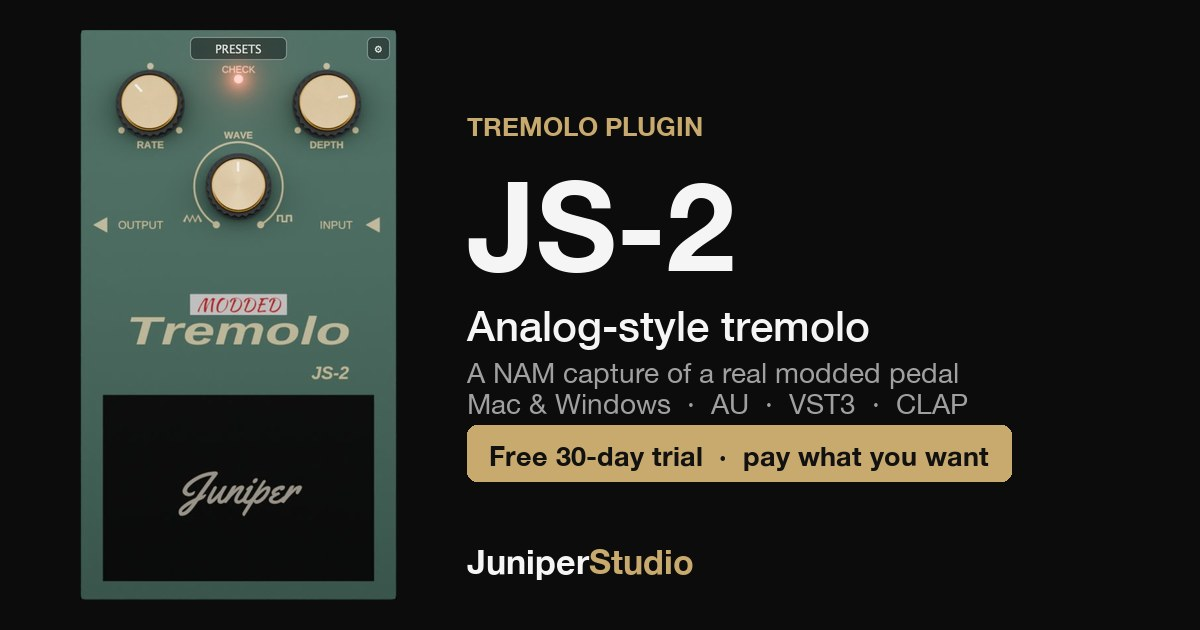
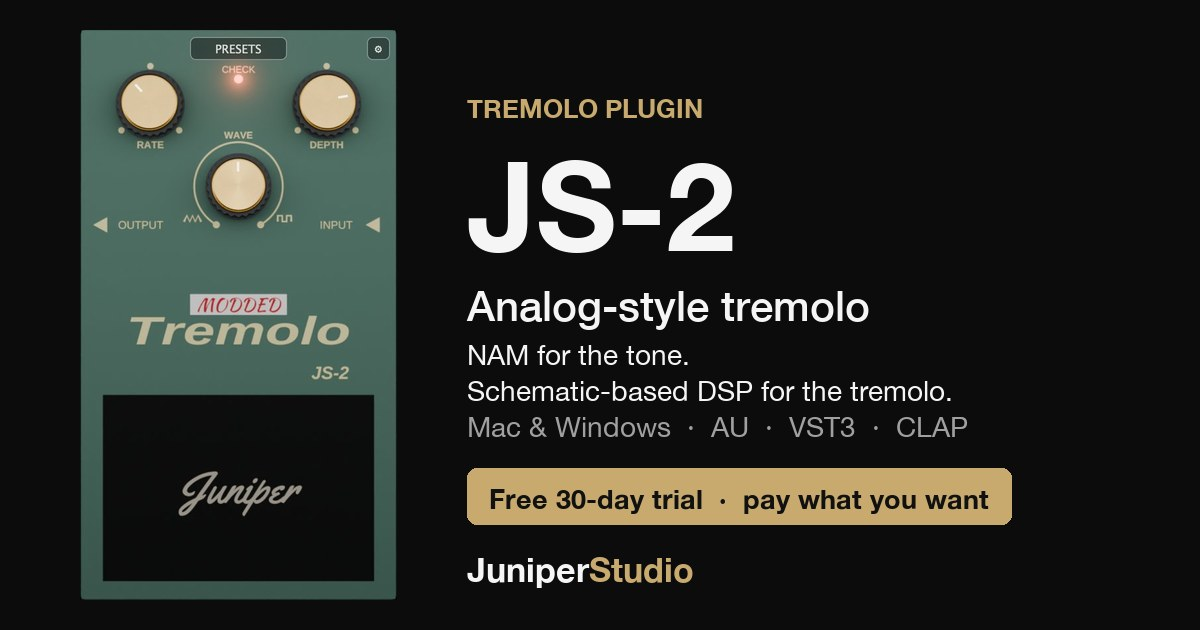
Plugin wording: "NAM for the tone, schematic-based DSP for the tremolo/chorus"
Replaces "a NAM capture of a real modded pedal" / "NAM captures of..." / "that capture runs inside the
plugin" everywhere (share cards, meta and social descriptions, structured data, What-it-is text,
feature cards, FAQ, plugins page, homepage, llms.txt), so the site no longer implies how many
captures a plugin uses. Share-card URLs get ?v=2 so cached link previews refresh.

Changed region(s): [[0.37, 0.1508, 0.8633, 0.8444], [0.37, 0.8746, 0.5858, 0.9349]]

diff --git a/js505.html b/js505.html
@@ -5,7 +5,7 @@
   <meta charset="UTF-8">
   <meta name="viewport" content="width=device-width, initial-scale=1.0">
   <title>JS-505 Chorus Plugin for Mac &amp; Windows — Free Trial</title>
-  <meta name="description" content="Analog-style chorus plugin built on NAM captures of a real chorus pedal. AU, VST3 and CLAP for Mac and Windows. Free 30-day trial, then pay what you want.">
+  <meta name="description" content="Analog-style chorus plugin: NAM for the tone, schematic-based DSP for the chorus. AU, VST3 and CLAP for Mac and Windows. Free 30-day trial, pay what you want.">
   <link rel="canonical" href="https://juniperstudiollc.com/js505">
 
   <link rel="icon" type="image/svg+xml" href="images/favicon.svg">
@@ -15,7 +15,7 @@
   <meta property="og:type" content="product">
   <meta property="og:site_name" content="Juniper Studio LLC">
   <meta property="og:title" content="JS-505 Chorus Plugin for Mac &amp; Windows — Free Trial">
-  <meta property="og:description" content="Analog-style chorus built on NAM captures of a real vintage chorus pedal. Free 30-day trial, then pay what you want from $1.">
+  <meta property="og:description" content="NAM for the tone, schematic-based DSP for the chorus, from a real vintage pedal. Free 30-day trial, then pay what you want from $1.">
   <meta property="og:url" content="https://juniperstudiollc.com/js505">
   <meta property="og:image" content="https://juniperstudiollc.com/images/social/js505.jpg">
   <meta property="og:image:width" content="1200">
@@ -23,7 +23,7 @@
   <meta property="og:image:alt" content="JS-505 analog-style chorus plugin">
   <meta name="twitter:card" content="summary_large_image">
   <meta name="twitter:title" content="JS-505 Chorus Plugin for Mac &amp; Windows — Free Trial">
-  <meta name="twitter:description" content="Analog-style chorus built on NAM captures of a real vintage chorus pedal. Free 30-day trial, then pay what you want from $1.">
+  <meta name="twitter:description" content="NAM for the tone, schematic-based DSP for the chorus, from a real vintage pedal. Free 30-day trial, then pay what you want from $1.">
   <meta name="twitter:image" content="https://juniperstudiollc.com/images/social/js505.jpg">
 
   <link rel="preconnect" href="https://fonts.googleapis.com">
@@ -42,7 +42,7 @@
   "dateModified": "2026-09-27",
   "applicationSubCategory": "Audio plugin (chorus effect)",
   "operatingSystem": "macOS 12 or newer, Windows",
-  "description": "Analog-style chorus plugin (AU, VST3, CLAP) built on a real vintage chorus pedal captured with Neural Amp Modeler A2. Free 30-day trial, then pay what you want.",
+  "description": "Analog-style chorus plugin (AU, VST3, CLAP) from a real vintage chorus pedal: Neural Amp Modeler A2 for the tone, schematic-based DSP for the chorus. Free 30-day trial, then pay what you want.",
   "url": "https://juniperstudiollc.com/js505",
   "image": "https://juniperstudiollc.com/images/js505-plugin.webp",
   "downloadUrl": "https://juniperstudiollc.com/js505",
@@ -62,7 +62,7 @@
   },
   "featureList": [
     "Analog-style chorus with SPEED and DEPTH controls",
-    "Built on NAM A2 captures of a real vintage pedal",
+    "NAM A2 for the tone, schematic-based DSP for the chorus",
     "Auto-Calibration for over 90 audio interfaces and preamps",
     "Optional buffered bypass, like the hardware",
     "Mono and stereo, including mono in to stereo out",
@@ -106,7 +106,7 @@
       "name": "What is JS-505?",
       "acceptedAnswer": {
         "@type": "Answer",
-        "text": "JS-505 is an analog-style chorus plugin from Juniper Studio LLC. It is built from a real vintage chorus pedal, captured with Neural Amp Modeler A2 (NAM A2), and has two knobs (SPEED and DEPTH) and a footswitch."
+        "text": "JS-505 is an analog-style chorus plugin from Juniper Studio LLC. It is built from a real vintage chorus pedal, with Neural Amp Modeler A2 (NAM A2) for the tone and schematic-based DSP for the chorus, and has two knobs (SPEED and DEPTH) and a footswitch."
       }
     },
     {
@@ -162,7 +162,7 @@
       "name": "What is NAM A2?",
       "acceptedAnswer": {
         "@type": "Answer",
-        "text": "Neural Amp Modeler (NAM), created by Steven Atkinson, is an open-source technology for capturing the sound of real analog gear. JS-505 uses its A2 models, so the tone comes from a capture of the actual hardware."
+        "text": "Neural Amp Modeler (NAM), created by Steven Atkinson, is an open-source technology for capturing the sound of real analog gear. JS-505 uses its A2 models for the pedal's tone, so it has the character of the actual hardware. The chorus itself is schematic-based DSP."
       }
     }
   ]
@@ -245,8 +245,8 @@
   <section class="section section-alt">
     <div class="container" style="max-width:860px;">
       <h2 style="text-align:center;">What it is</h2>
-      <p style="color:var(--muted);line-height:1.75;margin:0 auto 1rem;">JS-505 starts with a real vintage analog chorus pedal. We captured the pedal's own tone, the warmth that comes from its input and output circuitry, using Neural Amp Modeler A2 (NAM A2), the same technology used to capture guitar amps. That capture runs inside the plugin, so what you hear has the character of the actual hardware, not a generic digital imitation.</p>
-      <p style="color:var(--muted);line-height:1.75;margin:0 auto 1rem;">The chorus itself is modeled the way the original works: a short delay that's swept slowly and blended with your dry signal, then softened the way a bucket-brigade chip softens it. Turn SPEED up for a faster shimmer, DEPTH up for a wider, wobblier sound, or keep both low for a subtle thickening that just makes a track sound bigger.</p>
+      <p style="color:var(--muted);line-height:1.75;margin:0 auto 1rem;">JS-505 starts with a real vintage analog chorus pedal. The pedal's own tone, the warmth that comes from its input and output circuitry, comes from Neural Amp Modeler A2 (NAM A2), the same technology used to capture guitar amps, so what you hear has the character of the actual hardware, not a generic digital imitation.</p>
+      <p style="color:var(--muted);line-height:1.75;margin:0 auto 1rem;">The chorus itself is schematic-based DSP that works the way the original does: a short delay that's swept slowly and blended with your dry signal, then softened the way a bucket-brigade chip softens it. Turn SPEED up for a faster shimmer, DEPTH up for a wider, wobblier sound, or keep both low for a subtle thickening that just makes a track sound bigger.</p>
       <p style="color:var(--muted);line-height:1.75;margin:0 auto 2rem;">It was made and tested in a working recording studio, and it works great on guitar, bass, keys, synths and vocals. You get the sound of the pedal without the pedalboard, the cables or the hiss.</p>
 
       <div class="cards">
@@ -256,7 +256,7 @@
         </div>
         <div class="card">
           <h3>Built on NAM A2</h3>
-          <p>The tone comes from a real capture of the hardware, made with Neural Amp Modeler A2, so it has the weight and warmth of the original circuit.</p>
+          <p>Neural Amp Modeler A2 for the tone, schematic-based DSP for the chorus, so it has the weight and warmth of the original circuit.</p>
         </div>
         <div class="card">
           <h3>Buffered Bypass</h3>
@@ -264,7 +264,7 @@
         </div>
         <div class="card">
           <h3>Auto-Calibration</h3>
-          <p>Pick your audio interface or preamp from a list of over 90 and JS-505 drives the capture at the right level. Works on mono and stereo tracks, and takes mono tracks to stereo.</p>
+          <p>Pick your audio interface or preamp from a list of over 90 and JS-505 drives the pedal's tone at the right level. Works on mono and stereo tracks, and takes mono tracks to stereo.</p>
         </div>
       </div>
     </div>
@@ -286,7 +286,7 @@
     <div class="container" style="max-width:860px;">
       <h2 style="text-align:center;">Frequently asked questions</h2>
       <h3 style="margin-top:1.5rem;">What is JS-505?</h3>
-      <p style="color:var(--muted);line-height:1.7;">JS-505 is an analog-style chorus plugin from Juniper Studio LLC. It is built from a real vintage chorus pedal, captured with Neural Amp Modeler A2 (NAM A2), and has two knobs (SPEED and DEPTH) and a footswitch.</p>
+      <p style="color:var(--muted);line-height:1.7;">JS-505 is an analog-style chorus plugin from Juniper Studio LLC. It is built from a real vintage chorus pedal, with Neural Amp Modeler A2 (NAM A2) for the tone and schematic-based DSP for the chorus, and has two knobs (SPEED and DEPTH) and a footswitch.</p>
       <h3 style="margin-top:1.5rem;">What formats and computers does JS-505 run on?</h3>
       <p style="color:var(--muted);line-height:1.7;">On Mac: AU, VST3 and CLAP, for Apple Silicon and Intel, on macOS 12 or newer. On Windows: VST3 and CLAP. An AAX version for Pro Tools is coming soon.</p>
       <h3 style="margin-top:1.5rem;">Is JS-505 free?</h3>
@@ -300,7 +300,7 @@
       <h3 style="margin-top:1.5rem;">What is Buffered Bypass?</h3>
       <p style="color:var(--muted);line-height:1.7;">The real pedal doesn't just disconnect when you switch it off: your signal still passes through its buffer, which has a sound of its own. Turn on Buffered Bypass in Settings and the footswitch gives you that buffered sound, while your DAW's bypass button still bypasses the plugin completely.</p>
       <h3 style="margin-top:1.5rem;">What is NAM A2?</h3>
-      <p style="color:var(--muted);line-height:1.7;">Neural Amp Modeler (NAM), created by Steven Atkinson, is an open-source technology for capturing the sound of real analog gear. JS-505 uses its A2 models, so the tone comes from a capture of the actual hardware.</p>
+      <p style="color:var(--muted);line-height:1.7;">Neural Amp Modeler (NAM), created by Steven Atkinson, is an open-source technology for capturing the sound of real analog gear. JS-505 uses its A2 models for the pedal's tone, so it has the character of the actual hardware. The chorus itself is schematic-based DSP.</p>
     </div>
   </section>
 

diff --git a/js2.html b/js2.html
@@ -5,7 +5,7 @@
   <meta charset="UTF-8">
   <meta name="viewport" content="width=device-width, initial-scale=1.0">
   <title>JS-2 Tremolo Plugin for Mac &amp; Windows — Free Trial</title>
-  <meta name="description" content="Analog-style tremolo plugin built on a NAM capture of a real modded pedal. AU, VST3 and CLAP for Mac and Windows. Free 30-day trial, then pay what you want.">
+  <meta name="description" content="Analog-style tremolo plugin: NAM for the tone, schematic-based DSP for the tremolo. AU, VST3 and CLAP for Mac and Windows. Free 30-day trial, pay what you want.">
   <link rel="canonical" href="https://juniperstudiollc.com/js2">
 
   <link rel="icon" type="image/svg+xml" href="images/favicon.svg">
@@ -15,7 +15,7 @@
   <meta property="og:type" content="product">
   <meta property="og:site_name" content="Juniper Studio LLC">
   <meta property="og:title" content="JS-2 Tremolo Plugin for Mac &amp; Windows — Free Trial">
-  <meta property="og:description" content="Analog-style tremolo built on a NAM capture of a real modded pedal. Free 30-day trial, then pay what you want from $1.">
+  <meta property="og:description" content="NAM for the tone, schematic-based DSP for the tremolo, from a real modded pedal. Free 30-day trial, then pay what you want from $1.">
   <meta property="og:url" content="https://juniperstudiollc.com/js2">
   <meta property="og:image" content="https://juniperstudiollc.com/images/social/js2.jpg">
   <meta property="og:image:width" content="1200">
@@ -23,7 +23,7 @@
   <meta property="og:image:alt" content="JS-2 analog-style tremolo plugin">
   <meta name="twitter:card" content="summary_large_image">
   <meta name="twitter:title" content="JS-2 Tremolo Plugin for Mac &amp; Windows — Free Trial">
-  <meta name="twitter:description" content="Analog-style tremolo built on a NAM capture of a real modded pedal. Free 30-day trial, then pay what you want from $1.">
+  <meta name="twitter:description" content="NAM for the tone, schematic-based DSP for the tremolo, from a real modded pedal. Free 30-day trial, then pay what you want from $1.">
   <meta name="twitter:image" content="https://juniperstudiollc.com/images/social/js2.jpg">
 
   <link rel="preconnect" href="https://fonts.googleapis.com">
@@ -42,7 +42,7 @@
   "datePublished": "2026-09-27",
   "applicationSubCategory": "Audio plugin (tremolo effect)",
   "operatingSystem": "macOS 12 or newer, Windows",
-  "description": "Analog-style tremolo plugin (AU, VST3, CLAP) built on a real modded tremolo pedal captured with Neural Amp Modeler A2. Free 30-day trial, then pay what you want.",
+  "description": "Analog-style tremolo plugin (AU, VST3, CLAP) from a real modded tremolo pedal: Neural Amp Modeler A2 for the tone, schematic-based DSP for the tremolo. Free 30-day trial, then pay what you want.",
   "url": "https://juniperstudiollc.com/js2",
   "image": "https://juniperstudiollc.com/images/js2-plugin.webp",
   "downloadUrl": "https://juniperstudiollc.com/js2",
@@ -63,7 +63,7 @@
   "featureList": [
     "Analog-style tremolo with RATE, WAVE and DEPTH controls",
     "WAVE morphs from sine through triangle to square",
-    "Built on a NAM A2 capture of a real modded pedal",
+    "NAM A2 for the tone, schematic-based DSP for the tremolo",
     "Optional buffered bypass, like the hardware",
     "Auto-Calibration for over 90 audio interfaces and preamps",
     "Mono and stereo",
@@ -107,7 +107,7 @@
       "name": "What is JS-2?",
       "acceptedAnswer": {
         "@type": "Answer",
-        "text": "JS-2 is an analog-style tremolo plugin from Juniper Studio LLC. It is built from a real modded tremolo pedal, captured with Neural Amp Modeler A2 (NAM A2), and has three knobs (RATE, WAVE and DEPTH) and a footswitch."
+        "text": "JS-2 is an analog-style tremolo plugin from Juniper Studio LLC. It is built from a real modded tremolo pedal, with Neural Amp Modeler A2 (NAM A2) for the tone and schematic-based DSP for the tremolo, and has three knobs (RATE, WAVE and DEPTH) and a footswitch."
       }
     },
     {
@@ -163,7 +163,7 @@
       "name": "What is NAM A2?",
       "acceptedAnswer": {
         "@type": "Answer",
-        "text": "Neural Amp Modeler (NAM), created by Steven Atkinson, is an open-source technology for capturing the sound of real analog gear. JS-2 uses its A2 models, so the tone comes from a capture of the actual hardware."
+        "text": "Neural Amp Modeler (NAM), created by Steven Atkinson, is an open-source technology for capturing the sound of real analog gear. JS-2 uses its A2 models for the pedal's tone, so it has the character of the actual hardware. The tremolo itself is schematic-based DSP."
       }
     }
   ]
@@ -216,8 +216,8 @@
   <section class="section section-alt">
     <div class="container" style="max-width:860px;">
       <h2 style="text-align:center;">What it is</h2>
-      <p style="color:var(--muted);line-height:1.75;margin:0 auto 1rem;">JS-2 starts with a real analog tremolo pedal, and not a stock one: the unit behind it carries a very well-known boutique mod. We captured the pedal's own tone, the warmth of its input and output circuitry, using Neural Amp Modeler A2 (NAM A2), the same technology used to capture guitar amps. That capture runs inside the plugin, so what you hear has the character of the actual hardware.</p>
-      <p style="color:var(--muted);line-height:1.75;margin:0 auto 1rem;">The tremolo itself works the way the original does: it pulses your signal's volume up and down in time. RATE sets the speed, from a slow swell to a fast flutter. WAVE shapes each pulse, from a smooth sine through a triangle to a hard square. DEPTH sets how far the volume dips, all the way down to silence.</p>
+      <p style="color:var(--muted);line-height:1.75;margin:0 auto 1rem;">JS-2 starts with a real analog tremolo pedal, and not a stock one: the unit behind it carries a very well-known boutique mod. The pedal's own tone, the warmth of its input and output circuitry, comes from Neural Amp Modeler A2 (NAM A2), the same technology used to capture guitar amps, so what you hear has the character of the actual hardware.</p>
+      <p style="color:var(--muted);line-height:1.75;margin:0 auto 1rem;">The tremolo itself is schematic-based DSP, so it works the way the original does: it pulses your signal's volume up and down in time. RATE sets the speed, from a slow swell to a fast flutter. WAVE shapes each pulse, from a smooth sine through a triangle to a hard square. DEPTH sets how far the volume dips, all the way down to silence.</p>
       <p style="color:var(--muted);line-height:1.75;margin:0 auto 2rem;">It was made and tested in a working recording studio, and it works great on guitar, keys, synths, pads and vocals. You get the sound of the pedal without the pedalboard, the cables or the hiss.</p>
 
       <div class="cards">
@@ -227,7 +227,7 @@
         </div>
         <div class="card">
           <h3>Built on NAM A2</h3>
-          <p>The tone comes from a real capture of a modded pedal, made with Neural Amp Modeler A2, matched to the hardware within a tenth of a decibel.</p>
+          <p>Neural Amp Modeler A2 for the tone, schematic-based DSP for the tremolo. Matched to the hardware within a tenth of a decibel.</p>
         </div>
         <div class="card">
           <h3>Buffered Bypass</h3>
@@ -235,7 +235,7 @@
         </div>
         <div class="card">
           <h3>Auto-Calibration</h3>
-          <p>Pick your audio interface or preamp from a list of over 90 and JS-2 drives the capture at the right level. Works on mono and stereo tracks.</p>
+          <p>Pick your audio interface or preamp from a list of over 90 and JS-2 drives the pedal's tone at the right level. Works on mono and stereo tracks.</p>
         </div>
       </div>
     </div>
@@ -257,7 +257,7 @@
     <div class="container" style="max-width:860px;">
       <h2 style="text-align:center;">Frequently asked questions</h2>
       <h3 style="margin-top:1.5rem;">What is JS-2?</h3>
-      <p style="color:var(--muted);line-height:1.7;">JS-2 is an analog-style tremolo plugin from Juniper Studio LLC. It is built from a real modded tremolo pedal, captured with Neural Amp Modeler A2 (NAM A2), and has three knobs (RATE, WAVE and DEPTH) and a footswitch.</p>
+      <p style="color:var(--muted);line-height:1.7;">JS-2 is an analog-style tremolo plugin from Juniper Studio LLC. It is built from a real modded tremolo pedal, with Neural Amp Modeler A2 (NAM A2) for the tone and schematic-based DSP for the tremolo, and has three knobs (RATE, WAVE and DEPTH) and a footswitch.</p>
       <h3 style="margin-top:1.5rem;">What formats and computers does JS-2 run on?</h3>
       <p style="color:var(--muted);line-height:1.7;">On Mac: AU, VST3 and CLAP, for Apple Silicon and Intel, on macOS 12 or newer. On Windows: VST3 and CLAP. An AAX version for Pro Tools is coming soon.</p>
       <h3 style="margin-top:1.5rem;">Is JS-2 free?</h3>
@@ -271,7 +271,7 @@
       <h3 style="margin-top:1.5rem;">What is Buffered Bypass?</h3>
       <p style="color:var(--muted);line-height:1.7;">The real pedal doesn't just disconnect when you switch it off: your signal still passes through its buffer, which has a sound of its own. Turn on Buffered Bypass in Settings and the footswitch gives you that buffered sound, while your DAW's bypass button still bypasses the plugin completely.</p>
       <h3 style="margin-top:1.5rem;">What is NAM A2?</h3>
-      <p style="color:var(--muted);line-height:1.7;">Neural Amp Modeler (NAM), created by Steven Atkinson, is an open-source technology for capturing the sound of real analog gear. JS-2 uses its A2 models, so the tone comes from a capture of the actual hardware.</p>
+      <p style="color:var(--muted);line-height:1.7;">Neural Amp Modeler (NAM), created by Steven Atkinson, is an open-source technology for capturing the sound of real analog gear. JS-2 uses its A2 models for the pedal's tone, so it has the character of the actual hardware. The tremolo itself is schematic-based DSP.</p>
     </div>
   </section>
 

diff --git a/plugins.html b/plugins.html
@@ -4,7 +4,7 @@
   <meta charset="UTF-8">
   <meta name="viewport" content="width=device-width, initial-scale=1.0">
   <title>Pedal Plugins for Mac &amp; Windows — Free Trials | Juniper Studio</title>
-  <meta name="description" content="Plugins built on Neural Amp Modeler captures of real analog pedals: JS-505 chorus and JS-2 tremolo for Mac and Windows. Free 30-day trials, pay what you want.">
+  <meta name="description" content="Pedal plugins with NAM for the tone and schematic-based DSP for the effect: JS-505 chorus and JS-2 tremolo for Mac and Windows. Free trials, pay what you want.">
   <link rel="canonical" href="https://juniperstudiollc.com/plugins">
 
   <link rel="icon" type="image/svg+xml" href="images/favicon.svg">
@@ -14,7 +14,7 @@
   <meta property="og:type" content="website">
   <meta property="og:site_name" content="Juniper Studio LLC">
   <meta property="og:title" content="Pedal Plugins for Mac &amp; Windows — Free Trials">
-  <meta property="og:description" content="JS-505 chorus and JS-2 tremolo, built on NAM captures of real pedals. Free 30-day trials, pay what you want.">
+  <meta property="og:description" content="JS-505 chorus and JS-2 tremolo: NAM for the tone, schematic-based DSP for the effect. Free 30-day trials, pay what you want.">
   <meta property="og:url" content="https://juniperstudiollc.com/plugins">
   <meta property="og:image" content="https://juniperstudiollc.com/images/social/js2.jpg">
   <meta property="og:image:width" content="1200">
@@ -22,7 +22,7 @@
   <meta property="og:image:alt" content="JS-2 tremolo plugin from Juniper Studio">
   <meta name="twitter:card" content="summary_large_image">
   <meta name="twitter:title" content="Pedal Plugins for Mac &amp; Windows — Free Trials">
-  <meta name="twitter:description" content="JS-505 chorus and JS-2 tremolo, built on NAM captures of real pedals. Free 30-day trials, pay what you want.">
+  <meta name="twitter:description" content="JS-505 chorus and JS-2 tremolo: NAM for the tone, schematic-based DSP for the effect. Free 30-day trials, pay what you want.">
   <meta name="twitter:image" content="https://juniperstudiollc.com/images/social/js2.jpg">
 
   <link rel="preconnect" href="https://fonts.googleapis.com">
@@ -35,7 +35,7 @@
   "@type": "CollectionPage",
   "name": "Juniper Studio Plugins",
   "url": "https://juniperstudiollc.com/plugins",
-  "description": "Audio plugins built in the studio on NAM A2 captures of real analog gear. Free 30-day trials, donation-based pricing.",
+  "description": "Audio plugins built in the studio from real analog pedals: NAM A2 for the tone, schematic-based DSP for the effect. Free 30-day trials, donation-based pricing.",
   "isPartOf": {
     "@id": "https://juniperstudiollc.com/#business"
   },
@@ -111,13 +111,13 @@
         <a href="/js505" class="card" style="text-decoration:none;color:inherit;display:block;">
           <img src="images/js505-plugin.webp" alt="JS-505 chorus plugin" width="120" style="float:right;margin:0 0 .5rem 1rem;border-radius:8px;" loading="lazy">
           <h3>JS-505 &mdash; analog-style chorus</h3>
-          <p>Warm, wide and simple: two knobs and a footswitch. Built on NAM A2 from a real vintage chorus pedal. For Mac and Windows, Linux coming soon. Free 30-day trial, then donation-based: pay what you want.</p>
+          <p>Warm, wide and simple: two knobs and a footswitch. NAM A2 for the tone, schematic-based DSP for the chorus, from a real vintage pedal. For Mac and Windows, Linux coming soon. Free 30-day trial, then donation-based: pay what you want.</p>
           <p style="color:var(--accent);margin-top:.75rem;">See details &amp; download &rarr;</p>
         </a>
         <a href="/js2" class="card" style="text-decoration:none;color:inherit;display:block;">
           <img src="images/js2-plugin.webp" alt="JS-2 tremolo plugin" width="120" style="float:right;margin:0 0 .5rem 1rem;border-radius:8px;" loading="lazy">
           <h3>JS-2 &mdash; analog-style tremolo</h3>
-          <p>From a slow, round throb to a hard chop: rate, wave and depth, plus a footswitch. Built on NAM A2 from a real modded tremolo pedal. For Mac and Windows. Free 30-day trial, then donation-based: pay what you want.</p>
+          <p>From a slow, round throb to a hard chop: rate, wave and depth, plus a footswitch. NAM A2 for the tone, schematic-based DSP for the tremolo, from a real modded pedal. For Mac and Windows. Free 30-day trial, then donation-based: pay what you want.</p>
           <p style="color:var(--accent);margin-top:.75rem;">See details &amp; download &rarr;</p>
         </a>
         <div class="card">

diff --git a/index.html b/index.html
@@ -369,7 +369,7 @@
   <section class="section">
     <div class="container">
       <h2 style="text-align:center;">Plugins and shirts from the studio</h2>
-      <p class="subtitle" style="margin:0 auto 2rem;text-align:center;">The pedals on our board, captured with Neural Amp Modeler and turned into plugins for Mac and Windows. Try them free for 30 days, then pay what you want.</p>
+      <p class="subtitle" style="margin:0 auto 2rem;text-align:center;">The pedals on our board, turned into plugins for Mac and Windows: Neural Amp Modeler for the tone, schematic-based DSP for the effect. Try them free for 30 days, then pay what you want.</p>
       <div class="cards">
         <a class="card" href="/js2" style="color:inherit;"><h3>JS-2 tremolo</h3><p>An analog-style tremolo from a real modded pedal. Rate, wave and depth, from a slow swell to a hard chop.</p><p style="color:var(--accent);margin-top:.5rem;">Try JS-2 free &rarr;</p></a>
         <a class="card" href="/js505" style="color:inherit;"><h3>JS-505 chorus</h3><p>An analog-style chorus from a real vintage chorus pedal, with the pedal's own stereo output.</p><p style="color:var(--accent);margin-top:.5rem;">Try JS-505 free &rarr;</p></a>
